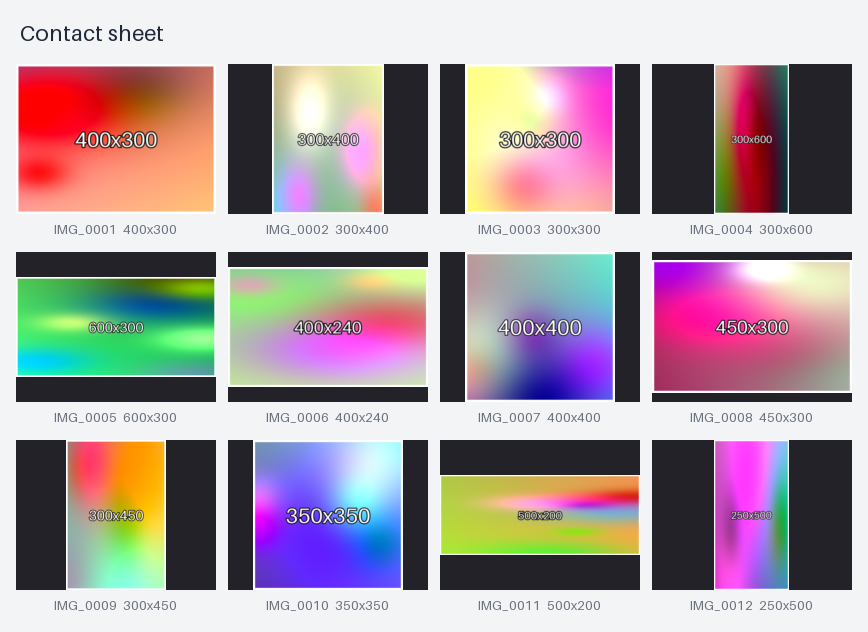
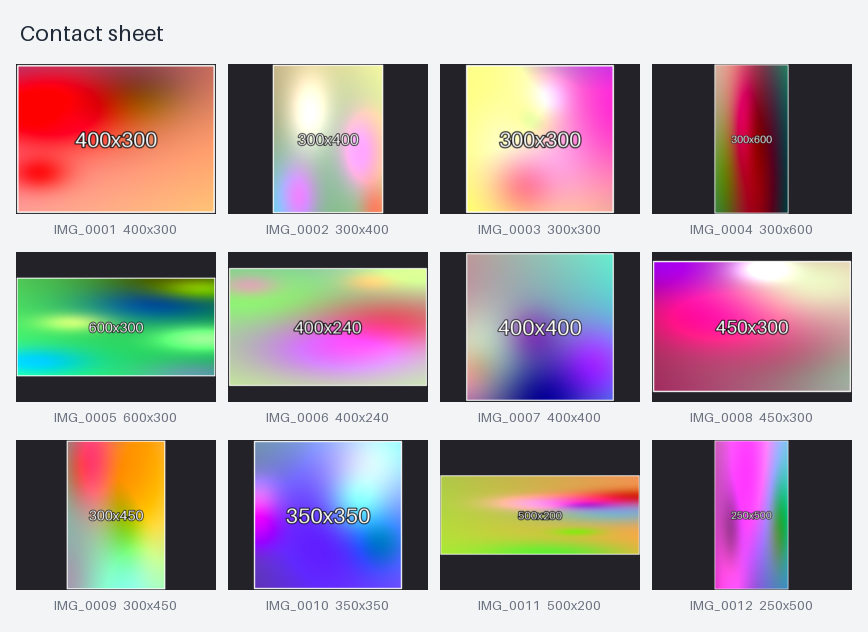
gallery: dark outer edge on sample photos so frames show on light backgrounds

diff --git a/examples/gallery/_kit.py b/examples/gallery/_kit.py
@@ -76,7 +76,10 @@ def photo(h: int, w: int, seed: int, caption: bool = True) -> np.ndarray:
     out = Image.fromarray((np.clip(img, 0, 1) * 255).astype(np.uint8))
     d = ImageDraw.Draw(out)
     b = max(2, min(h, w) // 60)
-    d.rectangle((0, 0, w - 1, h - 1), outline=(255, 255, 255), width=b)
+    k = max(1, b // 2)  # thin dark outer edge so the white frame stays visible on light backgrounds
+    d.rectangle((0, 0, w - 1, h - 1), outline=(20, 20, 24), width=k)
+    if min(h, w) > 2 * k + 2:
+        d.rectangle((k, k, w - 1 - k, h - 1 - k), outline=(255, 255, 255), width=max(1, b - k))
     if caption:
         d.text((w / 2, h / 2), f"{w}x{h}", font=font(max(10, min(h, w) // 7)), fill=(255, 255, 255),
                anchor="mm", stroke_width=2, stroke_fill=(0, 0, 0))  # fmt: skip
